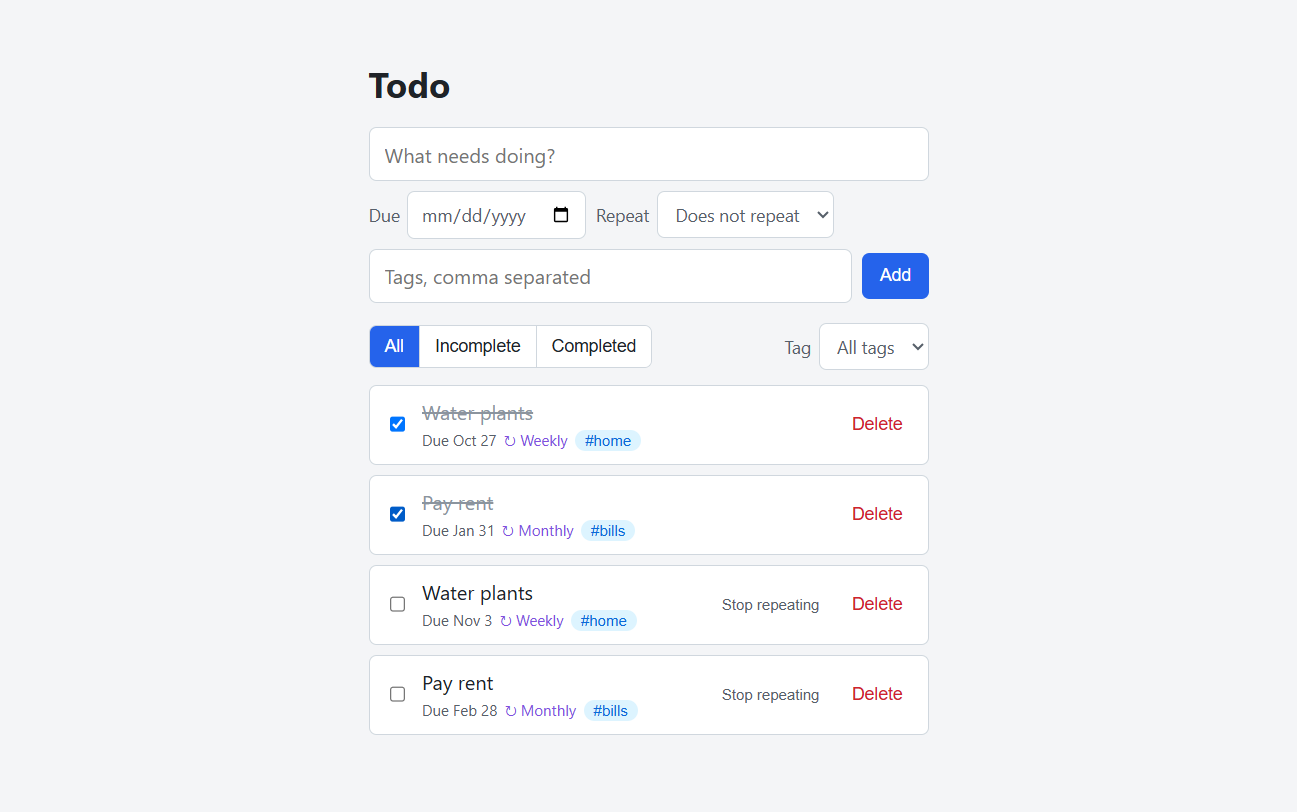
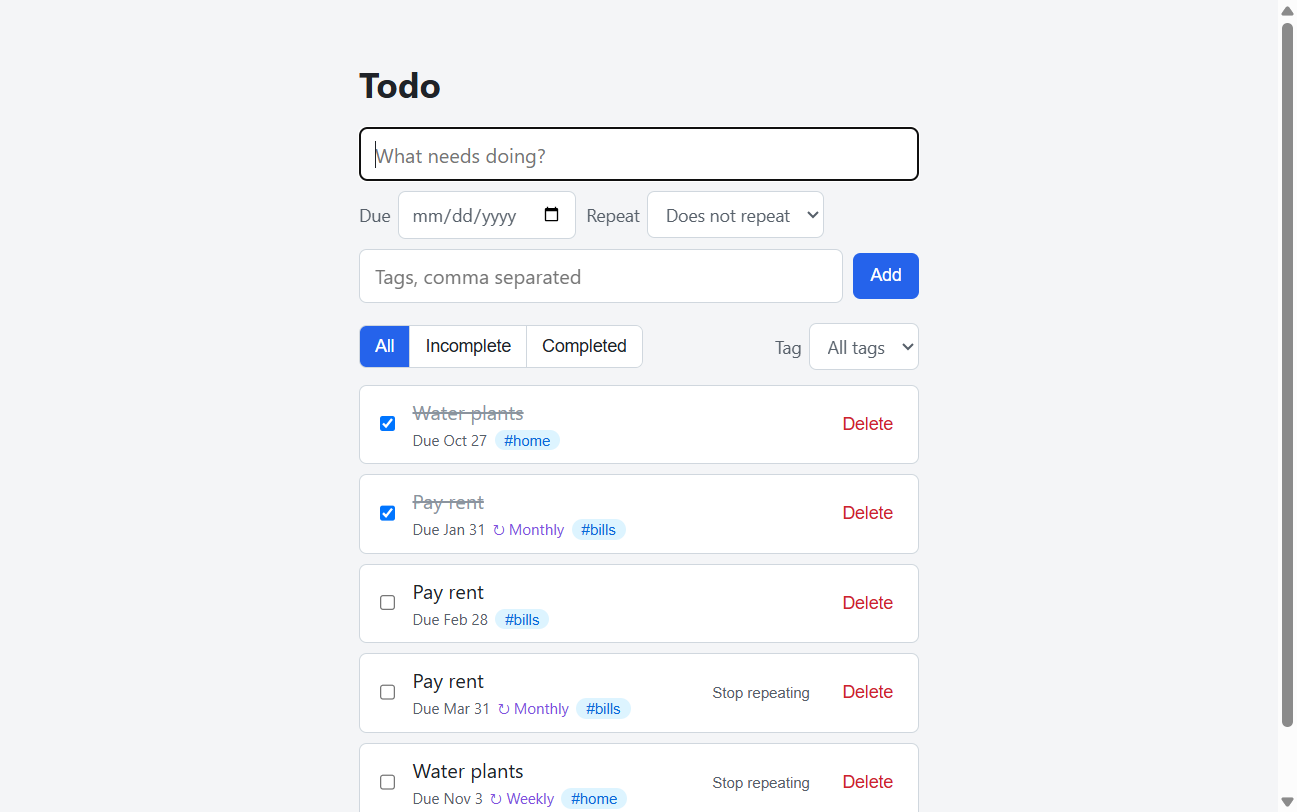
Todo app: fix review findings in recurring tasks (one transaction, no duplicate copies, monthly anchor day, storage error) (#7)

diff --git a/todo/recurrence.js b/todo/recurrence.js
@@ -9,15 +9,23 @@ export function toISODate(date = new Date()) {
   return `${date.getFullYear()}-${pad(date.getMonth() + 1)}-${pad(date.getDate())}`;
 }
 
+// Fields for a newly added task. Monthly series remember their day of the month, so a
+// series on the 31st returns to the 31st after a shorter month instead of drifting.
+export function newRecurringFields(due, repeat, today) {
+  if (repeat !== "monthly") return { repeat };
+  return { repeat, anchorDay: Number((due || today).slice(8, 10)) };
+}
+
 // The next due date after `due` (or after `today` when there is no due date), or null if
-// the task doesn't repeat. Monthly keeps the day, moved back to the month's last day if needed.
-export function nextDue(due, repeat, today) {
+// the task doesn't repeat. Monthly uses `anchorDay` (default: the due day), moved back to
+// the month's last day when that month is shorter.
+export function nextDue(due, repeat, today, anchorDay) {
   if (!REPEATS[repeat]) return null;
   const [y, m, d] = (due || today).split("-").map(Number);
   let next;
   if (repeat === "monthly") {
     const lastDay = new Date(Date.UTC(y, m + 1, 0)).getUTCDate();
-    next = new Date(Date.UTC(y, m, Math.min(d, lastDay)));
+    next = new Date(Date.UTC(y, m, Math.min(anchorDay || d, lastDay)));
   } else {
     next = new Date(Date.UTC(y, m - 1, d + (repeat === "daily" ? 1 : 7)));
   }
@@ -27,13 +35,19 @@ export function nextDue(due, repeat, today) {
 // Mark a task done. For a repeating task that hasn't spawned yet, also return the next
 // occurrence to add; `spawned` stops untick/re-tick from creating duplicates.
 export function completeTask(task, today) {
-  const due = task.spawned ? null : nextDue(task.due, task.repeat, today);
+  const due = task.spawned ? null : nextDue(task.due, task.repeat, today, task.anchorDay);
   const updated = { ...task, done: true };
   if (!due) return { updated, next: null };
-  return {
-    updated: { ...updated, spawned: true },
-    next: { title: task.title, due, tags: task.tags || [], repeat: task.repeat },
-  };
+  const next = { title: task.title, due, tags: task.tags || [], repeat: task.repeat };
+  if (task.anchorDay) next.anchorDay = task.anchorDay;
+  return { updated: { ...updated, spawned: true }, next };
+}
+
+// Untick a task. If it already spawned its next occurrence, that copy carries the series
+// on, so this one reopens as a one-off rather than a second open repeating copy.
+export function reopenTask(task) {
+  const reopened = { ...task, done: false };
+  return task.spawned ? { ...reopened, repeat: "" } : reopened;
 }
 
 export function stopRepeating(task) {

diff --git a/todo/main.js b/todo/main.js
@@ -1,13 +1,20 @@
 // Entry point: wires storage, logic and rendering to the page.
-import { openDb, addTask, listTasks, updateTask, deleteTask } from "./db.js";
+import { openDb, addTask, listTasks, changeTask, deleteTask } from "./db.js";
 import { parseTags, matches, tagsInUse } from "./tasks.js";
-import { completeTask, stopRepeating, toISODate } from "./recurrence.js";
+import { completeTask, reopenTask, stopRepeating, newRecurringFields, toISODate } from "./recurrence.js";
 import { renderTasks, renderTagOptions } from "./render.js";
 
 const $ = (id) => document.getElementById(id);
 const filters = { status: "all", tag: "" };
 
-const db = await openDb();
+let db;
+try {
+  db = await openDb();
+} catch (err) {
+  $("empty").textContent = "Storage is unavailable in this browser, so tasks can't be saved.";
+  $("new-task").querySelector("button[type=submit]").disabled = true;
+  throw err;
+}
 
 async function refresh() {
   const tasks = await listTasks(db);
@@ -24,13 +31,10 @@ async function refresh() {
 
 const handlers = {
   async toggle(task, checked) {
-    if (checked) {
-      const { updated, next } = completeTask(task, toISODate());
-      await updateTask(db, updated);
-      if (next) await addTask(db, next);
-    } else {
-      await updateTask(db, { ...task, done: false });
-    }
+    const today = toISODate();
+    await changeTask(db, task.id, (current) =>
+      checked ? completeTask(current, today) : { updated: reopenTask(current), next: null }
+    );
     refresh();
   },
   async remove(task) {
@@ -42,7 +46,7 @@ const handlers = {
     refresh();
   },
   async stopRepeating(task) {
-    await updateTask(db, stopRepeating(task));
+    await changeTask(db, task.id, (current) => ({ updated: stopRepeating(current), next: null }));
     refresh();
   },
 };
@@ -51,7 +55,9 @@ $("new-task").addEventListener("submit", async (e) => {
   e.preventDefault();
   const title = $("title").value.trim();
   if (!title) return;
-  await addTask(db, { title, due: $("due").value, tags: parseTags($("tags").value), repeat: $("repeat").value });
+  const due = $("due").value;
+  const recurring = newRecurringFields(due, $("repeat").value, toISODate());
+  await addTask(db, { title, due, tags: parseTags($("tags").value), ...recurring });
   e.target.reset();
   $("title").focus();
   refresh();

diff --git a/todo/recurrence.test.js b/todo/recurrence.test.js
@@ -1,6 +1,6 @@
 import { test } from "node:test";
 import assert from "node:assert/strict";
-import { nextDue, completeTask, stopRepeating } from "./recurrence.js";
+import { nextDue, completeTask, reopenTask, stopRepeating, newRecurringFields } from "./recurrence.js";
 
 const TODAY = "2026-10-26";
 
@@ -56,6 +56,30 @@ test("completing a non-repeating task creates nothing", () => {
 test("an older task with no repeat field creates nothing", () => {
   const { repeat, ...old } = weekly;
   assert.equal(completeTask(old, TODAY).next, null);
+});
+
+test("monthly keeps its original day after a short month (no drift)", () => {
+  const rent = { title: "Pay rent", due: "2027-01-31", tags: [], repeat: "monthly", anchorDay: 31, done: false };
+  const feb = completeTask(rent, TODAY).next;
+  assert.equal(feb.due, "2027-02-28");
+  assert.equal(feb.anchorDay, 31);
+  assert.equal(completeTask({ ...feb, done: false }, TODAY).next.due, "2027-03-31");
+});
+
+test("newRecurringFields records the day a monthly series is anchored to", () => {
+  assert.deepEqual(newRecurringFields("2027-01-31", "monthly", TODAY), { repeat: "monthly", anchorDay: 31 });
+  assert.deepEqual(newRecurringFields("", "monthly", TODAY), { repeat: "monthly", anchorDay: 26 });
+  assert.deepEqual(newRecurringFields("2027-01-31", "weekly", TODAY), { repeat: "weekly" });
+  assert.deepEqual(newRecurringFields("2027-01-31", "", TODAY), { repeat: "" });
+});
+
+test("reopening a task that already spawned turns it into a one-off, so only one open copy repeats", () => {
+  const { updated } = completeTask(weekly, TODAY);
+  assert.deepEqual(reopenTask(updated), { ...weekly, done: false, spawned: true, repeat: "" });
+});
+
+test("reopening a task that never spawned keeps its repeat", () => {
+  assert.deepEqual(reopenTask({ ...weekly, done: true }), weekly);
 });
 
 test("after Stop repeating, completing creates nothing", () => {

diff --git a/todo/db.js b/todo/db.js
@@ -26,5 +26,24 @@ function tx(db, mode, fn) {
 export const addTask = (db, fields) =>
   tx(db, "readwrite", (s) => s.add({ ...fields, done: false, createdAt: Date.now() }));
 export const listTasks = (db) => tx(db, "readonly", (s) => s.getAll());
-export const updateTask = (db, task) => tx(db, "readwrite", (s) => s.put(task));
 export const deleteTask = (db, id) => tx(db, "readwrite", (s) => s.delete(id));
+
+// Read the stored task, apply `change(task) -> { updated, next }`, save `updated` and add
+// `next` (if any), all in one transaction. A fresh read avoids acting on a stale copy, and
+// the single transaction means a failure saves neither write.
+export function changeTask(db, id, change) {
+  return new Promise((resolve, reject) => {
+    const t = db.transaction(STORE, "readwrite");
+    const store = t.objectStore(STORE);
+    const get = store.get(id);
+    get.onsuccess = () => {
+      if (!get.result) return;
+      const { updated, next } = change(get.result);
+      store.put(updated);
+      if (next) store.add({ ...next, done: false, createdAt: Date.now() });
+    };
+    t.oncomplete = () => resolve();
+    t.onerror = () => reject(t.error);
+    t.onabort = () => reject(t.error);
+  });
+}

diff --git a/todo/render.js b/todo/render.js
@@ -3,11 +3,11 @@
 import { isOverdue } from "./tasks.js";
 import { REPEATS } from "./recurrence.js";
 
-// Rebuild the tag dropdown, keeping `selected` if it is still in use.
+// Rebuild the tag dropdown. The caller makes sure `selected` is "" or a tag in `tags`.
 export function renderTagOptions(select, tags, selected) {
   const options = tags.map((tag) => new Option(`#${tag}`, tag));
   select.replaceChildren(new Option("All tags", ""), ...options);
-  select.value = tags.includes(selected) ? selected : "";
+  select.value = selected;
 }
 
 // on: { toggle(task, checked), remove(task), filterTag(tag), stopRepeating(task) }

diff --git a/todo/CLAUDE.md b/todo/CLAUDE.md
@@ -3,7 +3,12 @@
 A simple todo app: create a task, mark it done, delete it (#4). Tasks also have an optional due date and tags, and the list can be filtered by status (all, incomplete, completed) and by tag (#5). Tasks can repeat daily, weekly or monthly; ticking one creates the next occurrence (#7).
 
 - **Stack:** plain HTML, CSS and JavaScript ES modules with no build step or dependencies.
-- **Storage:** IndexedDB, the browser's client-side database. Database `todo-app`, object store `tasks`, records shaped `{ id, title, done, due, tags, repeat, spawned, createdAt }`. `due` is `"YYYY-MM-DD"` or `""`; `tags` is an array of lowercase strings; `repeat` is `"daily"`, `"weekly"`, `"monthly"` or `""`; `spawned` is set once a done occurrence has created its next one. Older records may lack `due`, `tags`, `repeat` and `spawned`, so treat them all as optional.
+- **Storage:** IndexedDB, the browser's client-side database. Database `todo-app`, object store `tasks`, records shaped `{ id, title, done, due, tags, repeat, anchorDay, spawned, createdAt }`.
+  - `due` is `"YYYY-MM-DD"` or `""`; `tags` is an array of lowercase strings.
+  - `repeat` is `"daily"`, `"weekly"`, `"monthly"` or `""`. `anchorDay` is a monthly series' day of the month, so Jan 31 goes to Feb 28 and then back to Mar 31.
+  - `spawned` is set once a done occurrence has created its next one. Unticking a spawned task reopens it as a one-off.
+  - Older records may lack all of these optional fields.
+  - Completing, reopening and Stop repeating each run in one IndexedDB transaction (`changeTask` in `db.js`).
 - **Modules** (one job each, see `.claude/skills/factory-loop/references/structure.md`):
   - `db.js`: IndexedDB access only.
   - `tasks.js`: pure logic for tag parsing, filtering and overdue checks.
